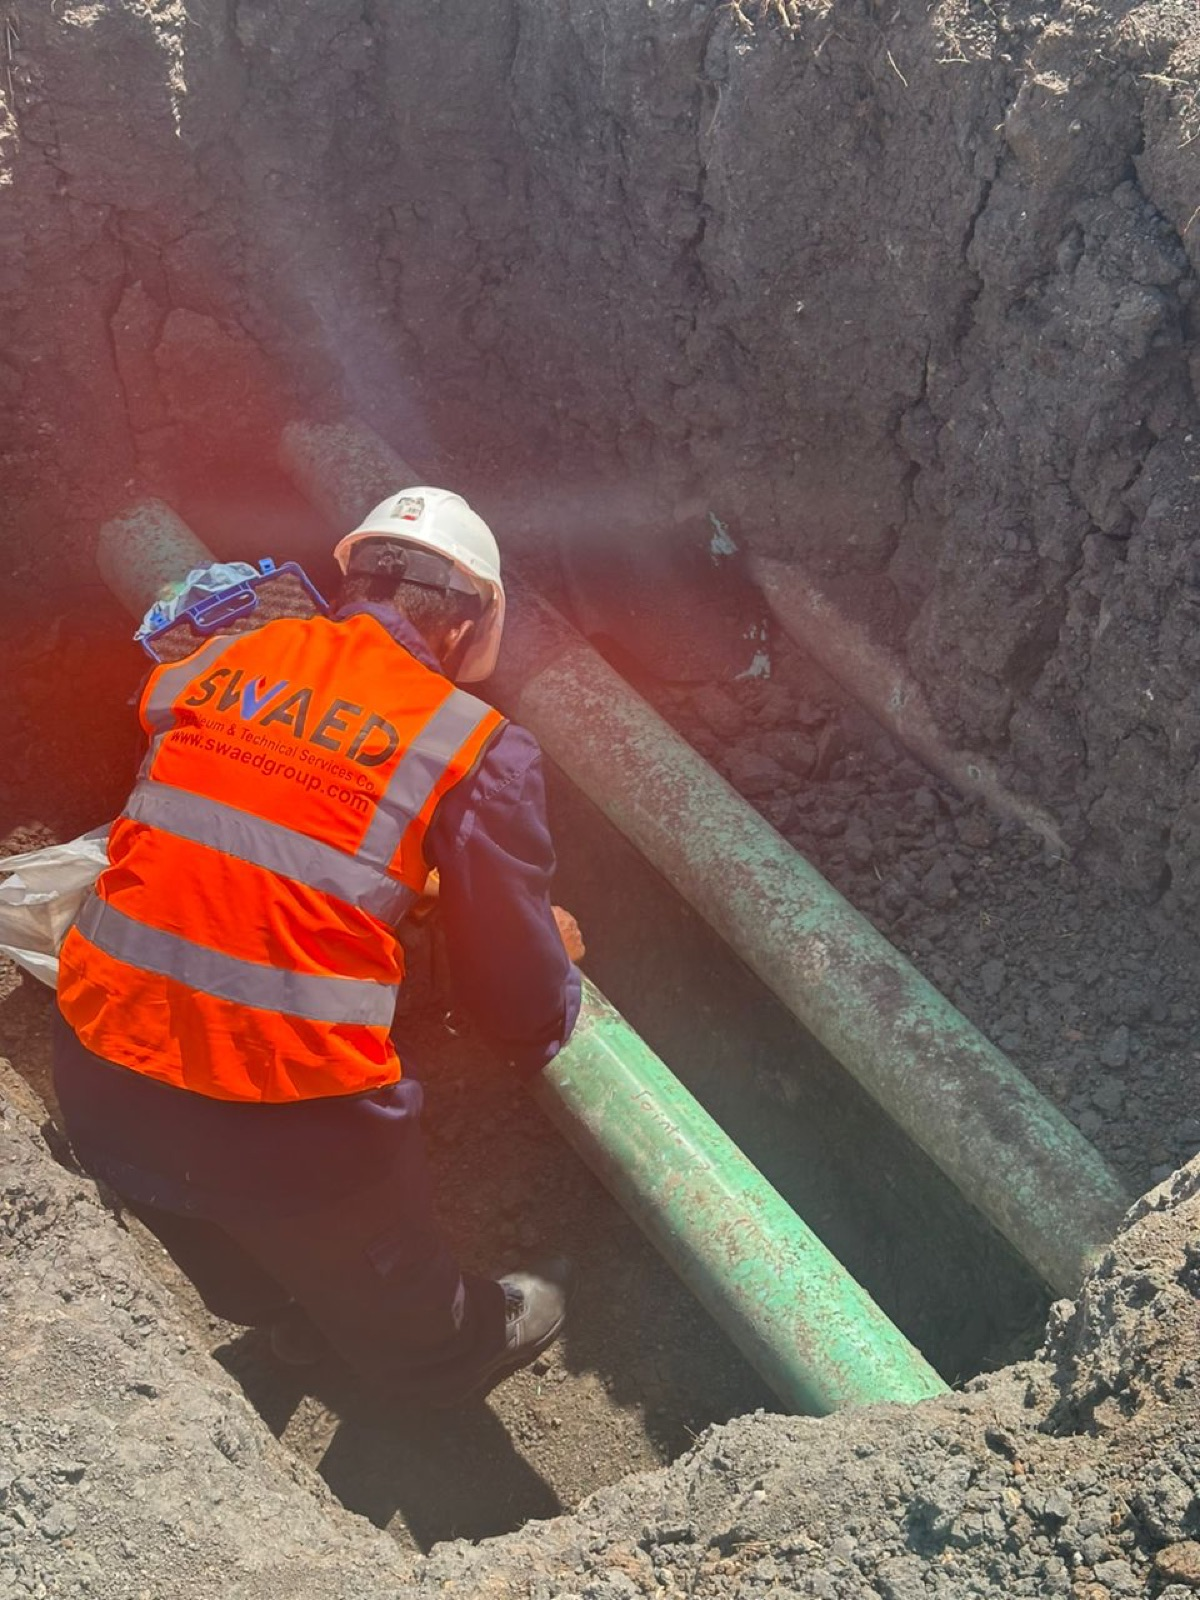
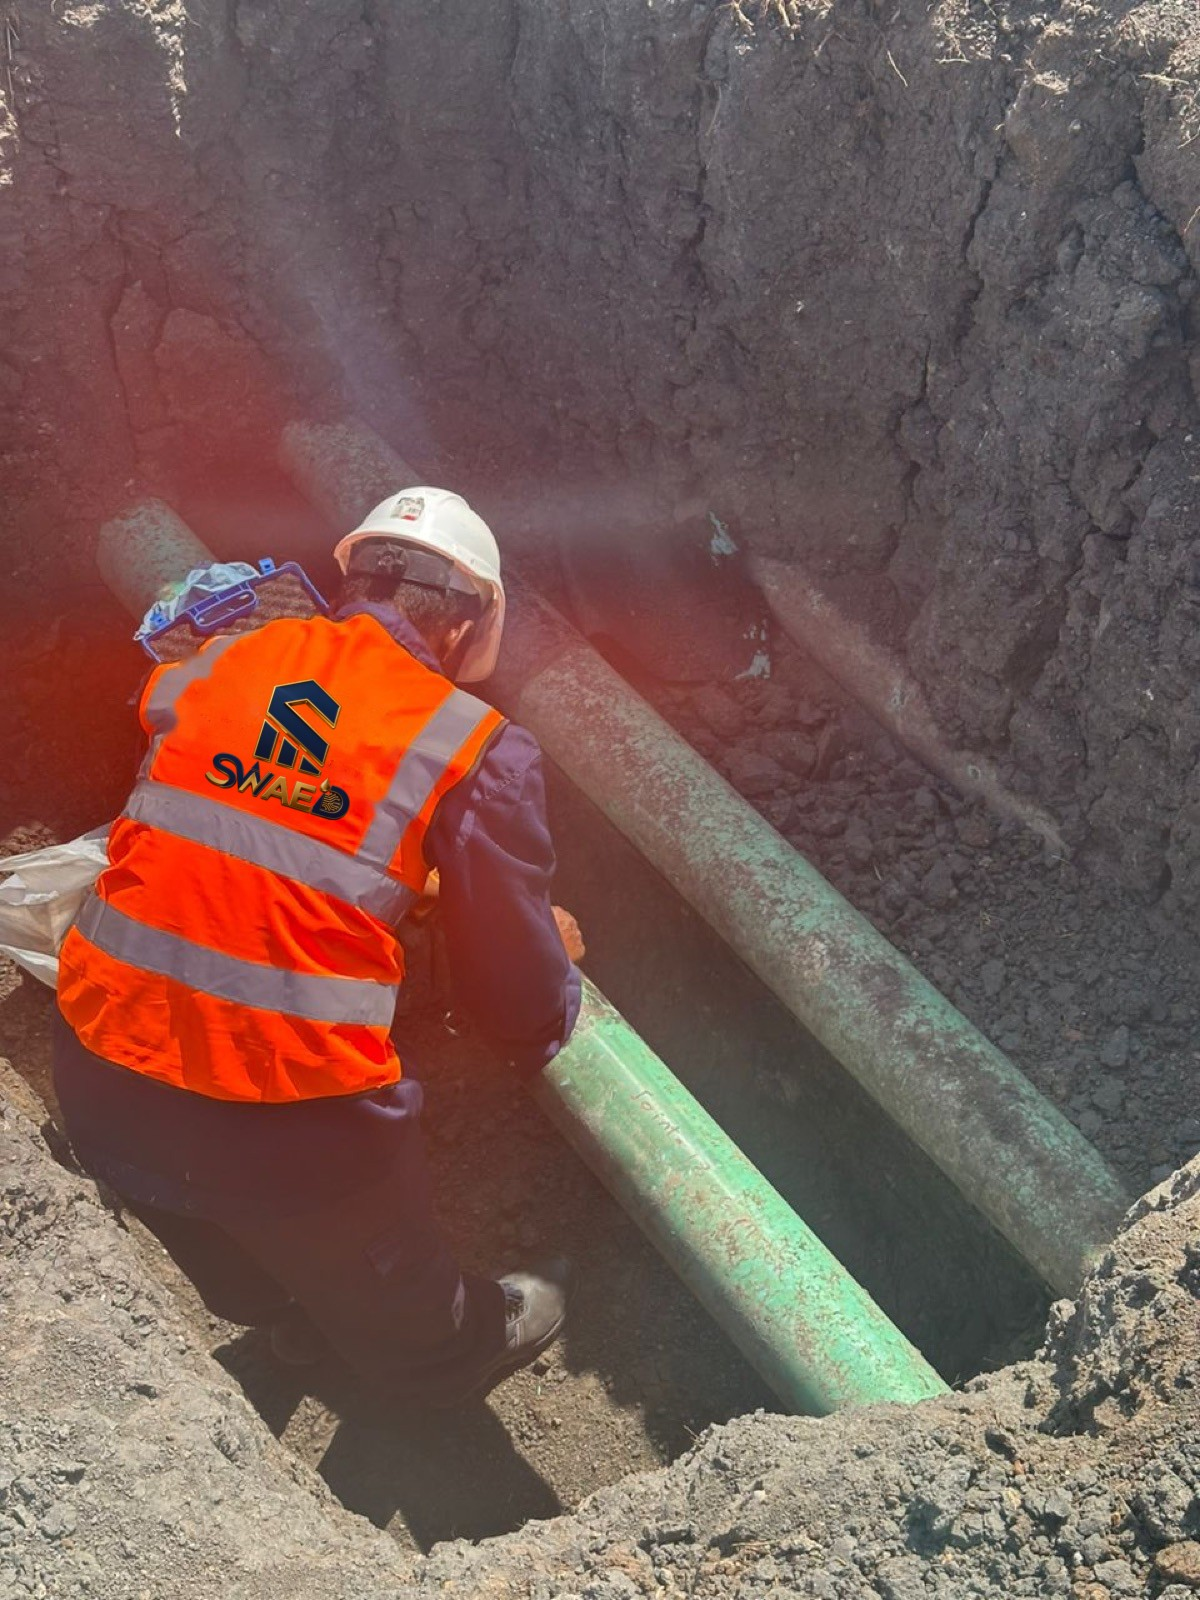
logon changes

Changed region(s): [[0.1233, 0.4062, 0.3392, 0.5312]]

diff --git a/data/media.ts b/data/media.ts
@@ -80,8 +80,8 @@ export const mediaItems: MediaItem[] = [
       "Health, Safety and Environment (HSE) is an integral part of SWAED's ethos and a core value embedded in everything we do.",
       "SWAED holds ISO 14001 certification and is among the companies in the Oil and Gas construction industry with the lowest LTI rates, due to its strong resolve and commitment to HSE. Bearing testament to this, SWAED has acquired numerous client awards for excellence in its HSE performance.",
     ],
-    image: "/images/people/qhse-group-banner.jpg",
-    imageAlt: "SWAED HSE commitment team at a field surface facility",
+    image: "/images/people/crew-night-shift.jpg",
+    imageAlt: "SWAED crew in coveralls and hard hats on a night shift",
     link: { label: "About us — QHSE", href: "/about-us#qhse" },
   },
 ];

diff --git a/app/about-us/page.tsx b/app/about-us/page.tsx
@@ -221,7 +221,7 @@ export default function AboutPage() {
                 <p className="mt-6 leading-relaxed text-text-secondary">{qhse.text}</p>
                 <p className="mt-4 leading-relaxed text-text-secondary">{qhse.text2}</p>
                 <div className="relative mt-8 aspect-[3/2] overflow-hidden">
-                  <Image src="/images/people/qhse-group-banner.jpg" alt="SWAED HSE commitment team at a field surface facility" fill sizes="(min-width:1024px) 45vw, 100vw" className="object-cover" />
+                  <Image src="/images/projects/spoc-crude-tank-cleaning/03.jpg" alt="SWAED crew in PPE assembled before the day's tank work" fill sizes="(min-width:1024px) 45vw, 100vw" className="object-cover" />
                 </div>
               </Reveal>
             </div>

diff --git a/data/projects.ts b/data/projects.ts
@@ -214,7 +214,8 @@ export const projects: Project[] = [
     client: "Bapco",
     clientShort: "Bapco",
     title: "32\" Export Pipeline Hot Tapping",
-    summary: "Hot tapping on a 32-inch export pipeline — a reference from SWAED's hot tapping technical partner.",
+    // summary: "Hot tapping on a 32-inch export pipeline — a reference from SWAED's hot tapping technical partner.",
+    summary:"In collaboration with our world-class technical partner-bringing over three decades of field experience and a $270M+ project portfolio-SWAED provides advanced hot tapping services for trunklines, pipelines, and piping systems, ensuring safe, continuous operations across all project scales",
     location: "Sudan",
     duration: "2019",
     highlight: "32\" hot tap",
